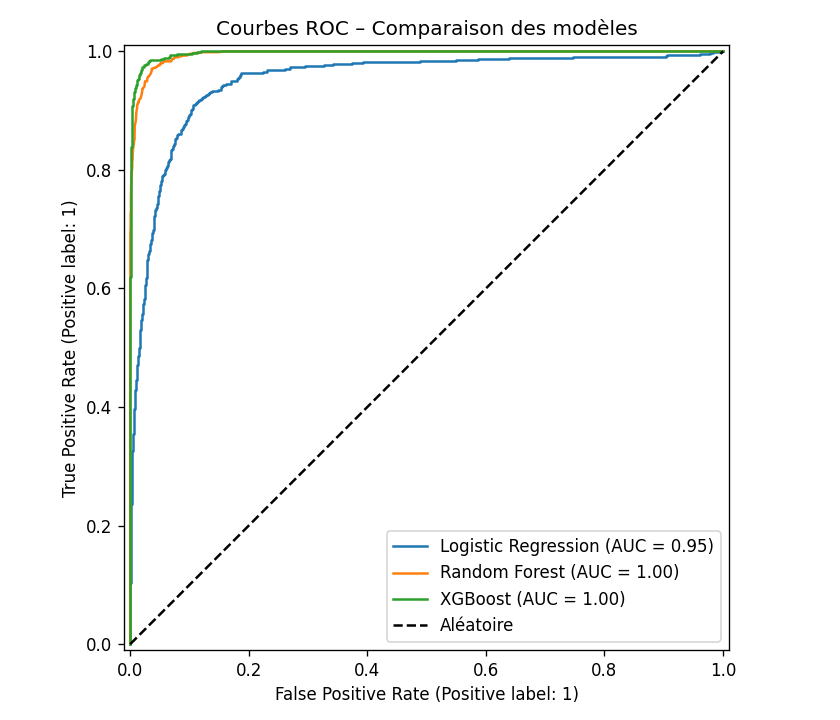
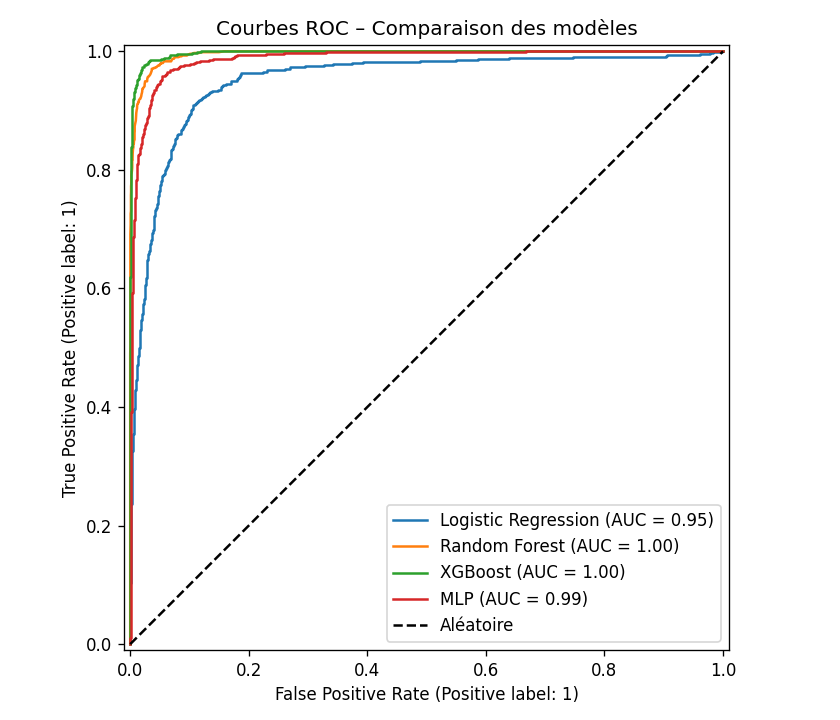
Add MLP model support and update training pipelines; include performance metrics

diff --git a/IA/Sujet_1/src/train.py b/IA/Sujet_1/src/train.py
@@ -7,6 +7,7 @@ import pandas as pd
 from sklearn.pipeline import Pipeline
 from sklearn.linear_model import LogisticRegression, Ridge
 from sklearn.ensemble import RandomForestClassifier, RandomForestRegressor
+from sklearn.neural_network import MLPClassifier, MLPRegressor
 from sklearn.impute import SimpleImputer
 from sklearn.preprocessing import StandardScaler, LabelEncoder
 from sklearn.model_selection import cross_val_score, StratifiedKFold
@@ -17,12 +18,14 @@ MODEL_FILENAMES = {
     'Logistic Regression': 'logistic_regression_failure_24h.joblib',
     'Random Forest':       'random_forest_failure_24h.joblib',
     'XGBoost':             'xgboost_failure_24h.joblib',
+    'MLP':                 'mlp_failure_24h.joblib',
 }
 
 MODEL_FILENAMES_TYPE = {
     'Logistic Regression': 'logistic_regression_failure_type.joblib',
     'Random Forest':       'random_forest_failure_type.joblib',
     'XGBoost':             'xgboost_failure_type.joblib',
+    'MLP':                 'mlp_failure_type.joblib',
 }
 
 
@@ -67,6 +70,15 @@ def build_pipelines() -> dict:
                 n_estimators=200, learning_rate=0.1, max_depth=6,
                 scale_pos_weight=1, random_state=42, n_jobs=-1,
                 eval_metric='logloss'
+            ))
+        ]),
+        'MLP': Pipeline([
+            ('imputer', SimpleImputer(strategy='median')),
+            ('scaler', StandardScaler()),
+            ('clf', MLPClassifier(
+                hidden_layer_sizes=(128, 64), activation='relu',
+                max_iter=500, random_state=42, early_stopping=True,
+                validation_fraction=0.1
             ))
         ]),
     }
@@ -115,6 +127,14 @@ def build_pipelines_type() -> dict:
                 random_state=42, n_jobs=-1, eval_metric='mlogloss',
             ))
         ]),
+        'MLP': Pipeline([
+            ('imputer', SimpleImputer(strategy='median')),
+            ('scaler', StandardScaler()),
+            ('clf', MLPClassifier(
+                hidden_layer_sizes=(128, 64), activation='relu',
+                max_iter=500, random_state=42, early_stopping=False,
+            ))
+        ]),
     }
 
 
@@ -137,6 +157,7 @@ MODEL_FILENAMES_RUL = {
     'Régression Linéaire': 'linear_regression_rul.joblib',
     'Random Forest':       'random_forest_rul.joblib',
     'XGBoost':             'xgboost_rul.joblib',
+    'MLP':                 'mlp_rul.joblib',
 }
 
 
@@ -158,6 +179,15 @@ def build_pipelines_rul() -> dict:
                 n_estimators=200, learning_rate=0.1, max_depth=6,
                 random_state=42, n_jobs=-1, eval_metric='rmse',
             )),
+        ]),
+        'MLP': Pipeline([
+            ('imputer', SimpleImputer(strategy='median')),
+            ('scaler', StandardScaler()),
+            ('reg', MLPRegressor(
+                hidden_layer_sizes=(128, 64), activation='relu',
+                max_iter=500, random_state=42, early_stopping=True,
+                validation_fraction=0.1
+            ))
         ]),
     }
 

diff --git a/IA/Sujet_1/train_pipeline.py b/IA/Sujet_1/train_pipeline.py
@@ -56,7 +56,7 @@ def main():
     # Sauvegarde stats failure_24h
     stats_dir = os.path.join(os.path.dirname(os.path.abspath(__file__)), 'models_stats', 'failure_24h')
     os.makedirs(stats_dir, exist_ok=True)
-    _name_map = {'Logistic Regression': 'logistic_regression', 'Random Forest': 'random_forest', 'XGBoost': 'xgboost'}
+    _name_map = {'Logistic Regression': 'logistic_regression', 'Random Forest': 'random_forest', 'XGBoost': 'xgboost', 'MLP': 'mlp'}
     for model_name, row in results_df.iterrows():
         key = _name_map.get(model_name, model_name.lower().replace(' ', '_'))
         with open(os.path.join(stats_dir, f'{key}.json'), 'w') as f:
@@ -84,7 +84,7 @@ def main():
 
     stats_rul_dir = os.path.join(os.path.dirname(os.path.abspath(__file__)), 'models_stats', 'rul')
     os.makedirs(stats_rul_dir, exist_ok=True)
-    _rul_name_map = {'Régression Linéaire': 'logistic_regression', 'Random Forest': 'random_forest', 'XGBoost': 'xgboost'}
+    _rul_name_map = {'Régression Linéaire': 'logistic_regression', 'Random Forest': 'random_forest', 'XGBoost': 'xgboost', 'MLP': 'mlp'}
     for model_name, row in results_rul_df.iterrows():
         key = _rul_name_map.get(model_name, model_name.lower().replace(' ', '_'))
         with open(os.path.join(stats_rul_dir, f'{key}.json'), 'w') as f:
